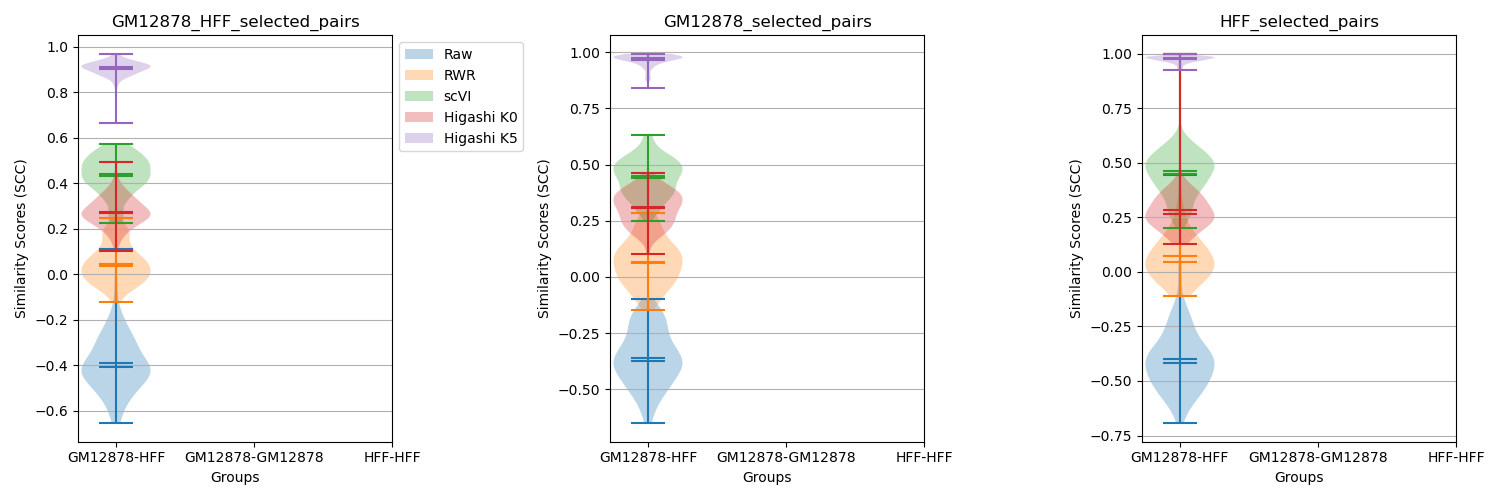
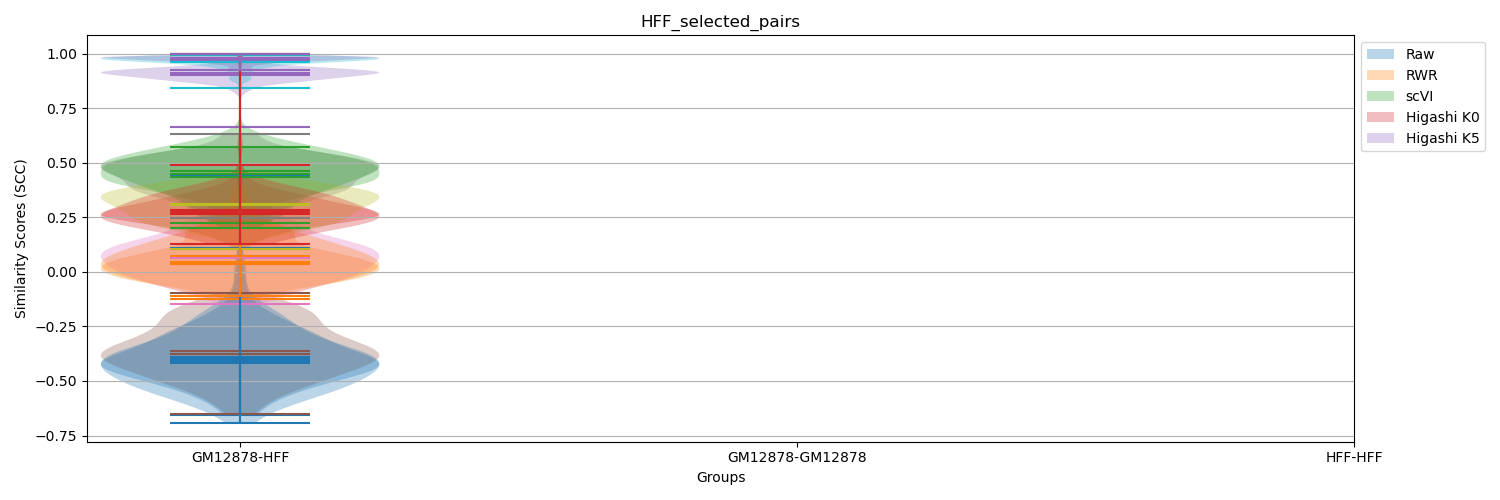
modified plot

diff --git a/experiments/2023-09-18/plot_SCC.py b/experiments/2023-09-18/plot_SCC.py
@@ -17,14 +17,14 @@ pairs_list = [GM12878_HFF_pairs, GM12878_pairs, HFF_pairs]
 #plt.figure(figsize=(15, 5))  
 
 violins = []
-fig, axes = plt.subplots(1, 3, figsize=(15, 5))
+fig, axes = plt.subplots(1, 1, figsize=(15, 5))
 
 # Set the common x-axis ticks and labels
 x_ticks = [1, 2, 3]
 x_tick_labels = ["GM12878-HFF", "GM12878-GM12878", "HFF-HFF"]
 
 for j, p in enumerate(pairs_list):
-    ax = axes[j]  # Get the current axis
+    ax = axes  # Get the current axis
     
     for i, d in enumerate(dirs):
         temp_df = pd.read_csv(os.path.join(d, p), sep='\t')
@@ -40,7 +40,7 @@ for j, p in enumerate(pairs_list):
         ax.grid(axis='y')
 
 # Add a legend to the first subplot (you can customize this as needed)
-axes[0].legend(violins, ["Raw", "RWR", "scVI", "Higashi K0", "Higashi K5"], loc='upper left', bbox_to_anchor=(1, 1))
+axes.legend(violins, ["Raw", "RWR", "scVI", "Higashi K0", "Higashi K5"], loc='upper left', bbox_to_anchor=(1, 1))
 
 plt.tight_layout()
 plt.savefig(os.path.join("/project/compbio-lab/scHi-C/Kim2020/similarity_scores/SCC_plot_2.png"))
